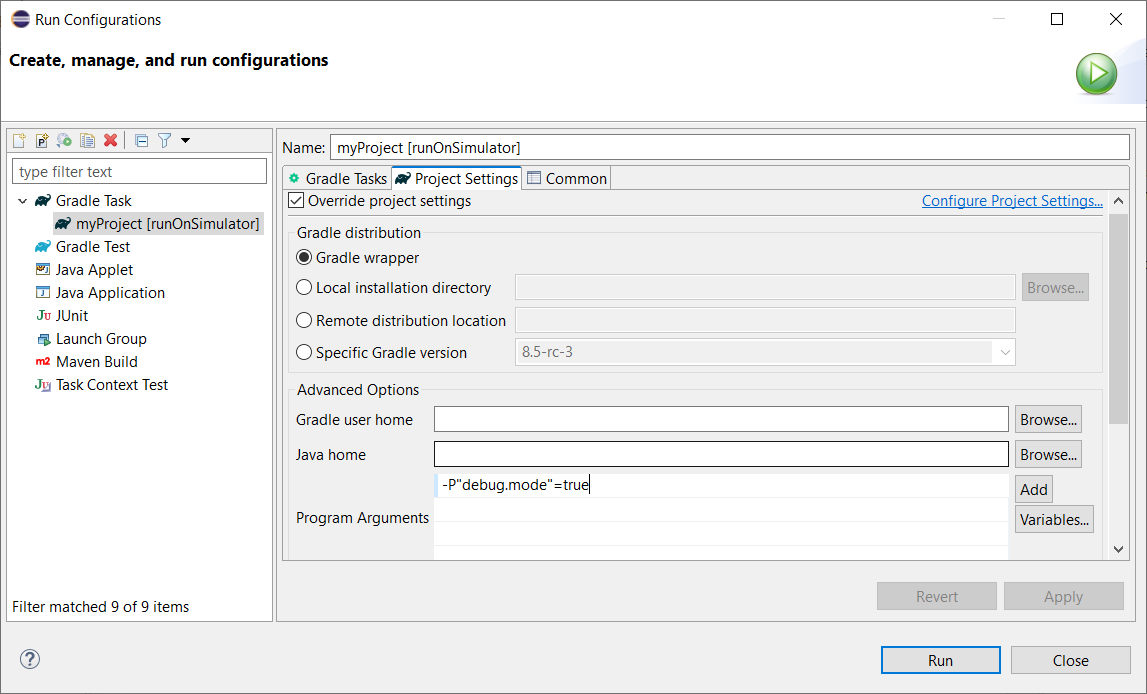
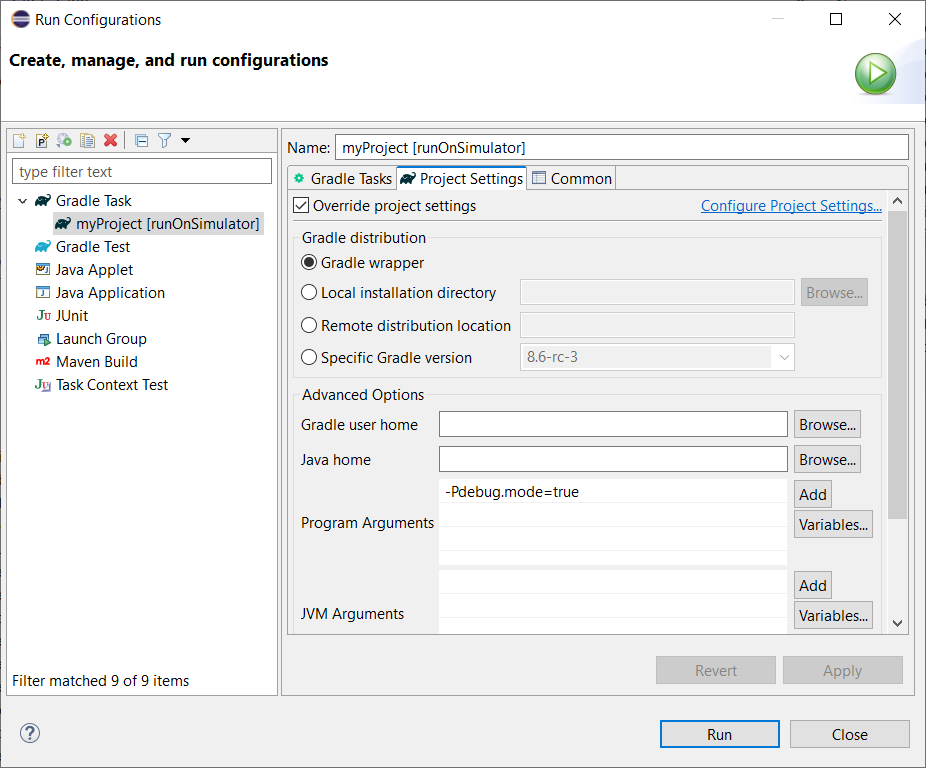
Remove incorrect double quotes when passing project properties in SDK 6 through Run Configuration

diff --git a/SDK6UserGuide/howtos/createCustomConfigurationInIDE.rst b/SDK6UserGuide/howtos/createCustomConfigurationInIDE.rst
@@ -14,7 +14,7 @@ This chapter explains how to create a new Configuration in all the supported IDE
       - Click on :guilabel:`Run` > :guilabel:`Edit Configurations...`.
       - Click on :guilabel:`+` and Select :guilabel:`Gradle`.
       - Fill the name of the new Configuration in the :guilabel:`Name` field.
-      - Add a task and a property if needed in the ``Run`` dialog, for example ``runOnSimulator -P"debug.mode"=true``.
+      - Add a task and a property if needed in the ``Run`` dialog, for example ``runOnSimulator -Pdebug.mode=true``.
       
       .. figure:: images/intellij-run-configuration.png
          :alt: Configuration Creation in IntelliJ IDEA
@@ -60,7 +60,7 @@ This chapter explains how to create a new Configuration in all the supported IDE
     
       - Go to the ``Project Settings`` tab.
       - Check ``Override project settings``.
-      - Add a property as a Program Argument if needed, for example ``-P"debug.mode"=true``.
+      - Add a property as a Program Argument if needed, for example ``-Pdebug.mode=true``.
       
       .. figure:: images/eclipe-run-configuration-project-settings.png
          :alt: Configuration Project Settings tab in Eclipse
@@ -72,7 +72,7 @@ This chapter explains how to create a new Configuration in all the supported IDE
       - Click on :guilabel:`Run` to launch the Configuration.
 
 ..
-   | Copyright 2008-2023, MicroEJ Corp. Content in this space is free 
+   | Copyright 2008-2024, MicroEJ Corp. Content in this space is free 
    for read and redistribute. Except if otherwise stated, modification 
    is subject to MicroEJ Corp prior approval.
    | MicroEJ is a trademark of MicroEJ Corp. All other trademarks and 

diff --git a/SDK6UserGuide/sdk6ChangeLog.rst b/SDK6UserGuide/sdk6ChangeLog.rst
@@ -21,6 +21,7 @@ Changed
 
 - Task ``:execTool`` looks for a script named after the argument NAME with the following patterns in that order: NAME, NAME.microejTool, NAME.microejLaunch.
 - Align the behavior of the ``:buildFeature`` task with the ``localDeploymentSocket.microejLaunch`` script.
+
   - output files are derived after "application" instead of "feature" (for example "application.fo").
   - the application.main.class is set to the entryPoint defined in the .kf of the application.
 
